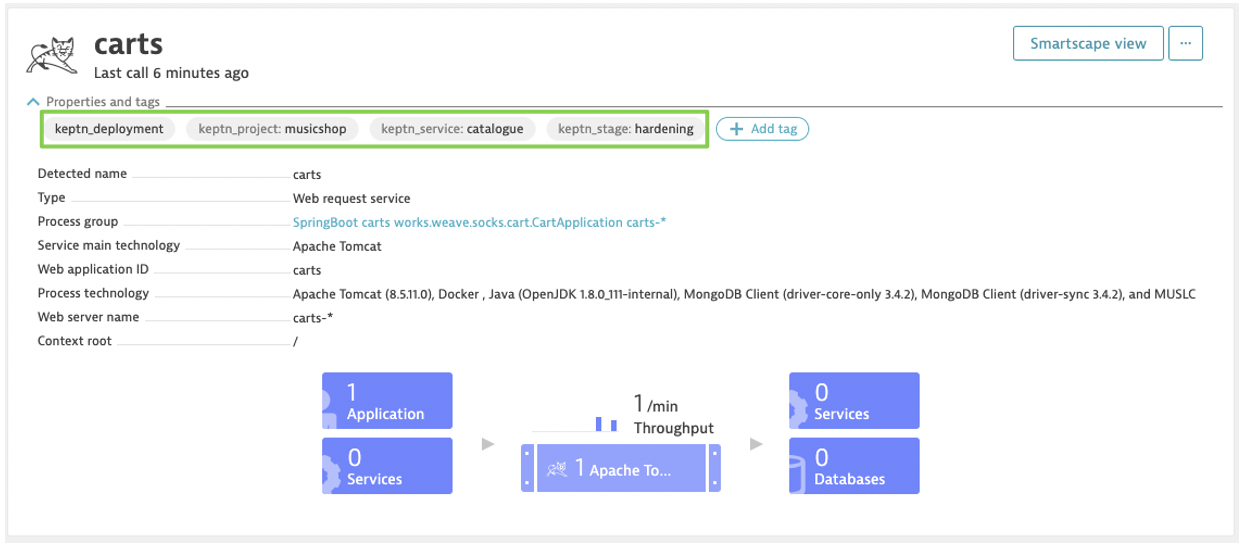
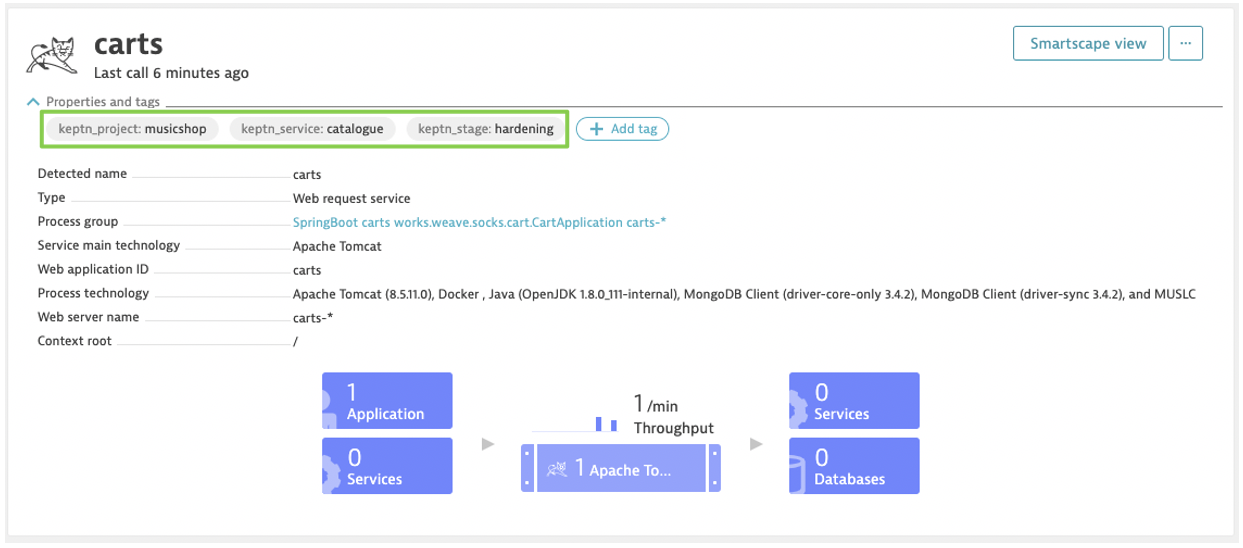
#447 Adapted quality gates only UC - removed  DEPLOYMENT tag for the Dynatrace scenario

Changed region(s): [[0.0306, 0.1861, 0.642, 0.2792]]

diff --git a/content/docs/0.6.0/usecases/quality-gates/index.md b/content/docs/0.6.0/usecases/quality-gates/index.md
@@ -27,7 +27,7 @@ For more information about SLO and SLI, please take a look at [Specifications fo
 * Clone example files used for this tutorial:
 
     ```console
-    git clone --branch 0.6.0 https://github.com/keptn/examples.git --single-branch
+    git clone --branch 0.6.1 https://github.com/keptn/examples.git --single-branch
     ```
 
     ```console
@@ -101,7 +101,7 @@ Furthermore, the service has to be monitored by Prometheus. Therefore, a *scrape
 <details><summary>**Option 2: Instructions for Dynatrace**</summary>
 <p>
 
-To gather the monitoring data of your service, it must have the tags **keptn_project**, **keptn_stage**, **keptn_service**, and **keptn_deployment** attached: 
+To gather the monitoring data of your service, it must have the tags **keptn_project**, **keptn_stage**, and **keptn_service** attached: 
   {{< popup_image
     link="./assets/monitored_service.png"
     caption="Tags on catalogue service"
@@ -109,12 +109,12 @@ To gather the monitoring data of your service, it must have the tags **keptn_pro
 
 Example how to add those tags:
 
-* Set the environment variable [DT_CUSTOM_PROP](../../reference/monitoring/dynatrace/#set-dt-custom-prop-before-onboarding-a-service) with a key-value pair for the tags `keptn_stage`, `keptn_project`, and `keptn_service` as well as the tag `keptn_deployment` in your deployment manifest and deploy your service: 
+* Set the environment variable [DT_CUSTOM_PROP](../../reference/monitoring/dynatrace/#set-dt-custom-prop-before-onboarding-a-service) with a key-value pair for the tags `keptn_stage`, `keptn_project`, and `keptn_service` in your deployment manifest and deploy your service: 
 
 ```
 env:
 - name: DT_CUSTOM_PROP
-  value: "keptn_stage=hardening keptn_project=musicshop keptn_service=catalogue keptn_deployment"
+  value: "keptn_stage=hardening keptn_project=musicshop keptn_service=catalogue"
 ``` 
 
 * Add tagging rules in Dynatrace to detect these values and to create the tags for your monitored service. Therefore, you can use the scripts [applyAutoTaggingRules.sh](https://github.com/keptn-contrib/dynatrace-service/blob/release-0.5.0/deploy/scripts/applyAutoTaggingRules.sh) and
@@ -187,7 +187,7 @@ For this tutorial, you need to deploy the corresponding SLI provider for your mo
       namespace: keptn
     ```
 
-1. Configure custom SLIs for the Dynatrace SLI provider as specified in `sli-config-prometheus.yaml`:
+1. Configure custom SLIs for the Prometheus SLI provider as specified in `sli-config-prometheus.yaml`:
 
     ```console
     keptn add-resource --project=musicshop --stage=hardening --service=catalogue --resource=sli-config-prometheus.yaml --resourceUri=prometheus/sli.yaml
@@ -218,10 +218,10 @@ For this tutorial, you need to deploy the corresponding SLI provider for your mo
       namespace: keptn
     ```
 
-1. Configure custom SLIs for the Dynatrace SLI provider as specified in `sli-config-dynatrace.yaml`:
+1. Configure custom SLIs for the Dynatrace SLI provider as specified in `sli-config-dynatrace-no-deployment-tag.yaml`:
 
     ```console
-    keptn add-resource --project=musicshop --stage=hardening --service=catalogue --resource=sli-config-dynatrace.yaml --resourceUri=dynatrace/sli.yaml
+    keptn add-resource --project=musicshop --stage=hardening --service=catalogue --resource=sli-config-dynatrace-no-deployment-tag.yaml --resourceUri=dynatrace/sli.yaml
     ```
 
 </p>
